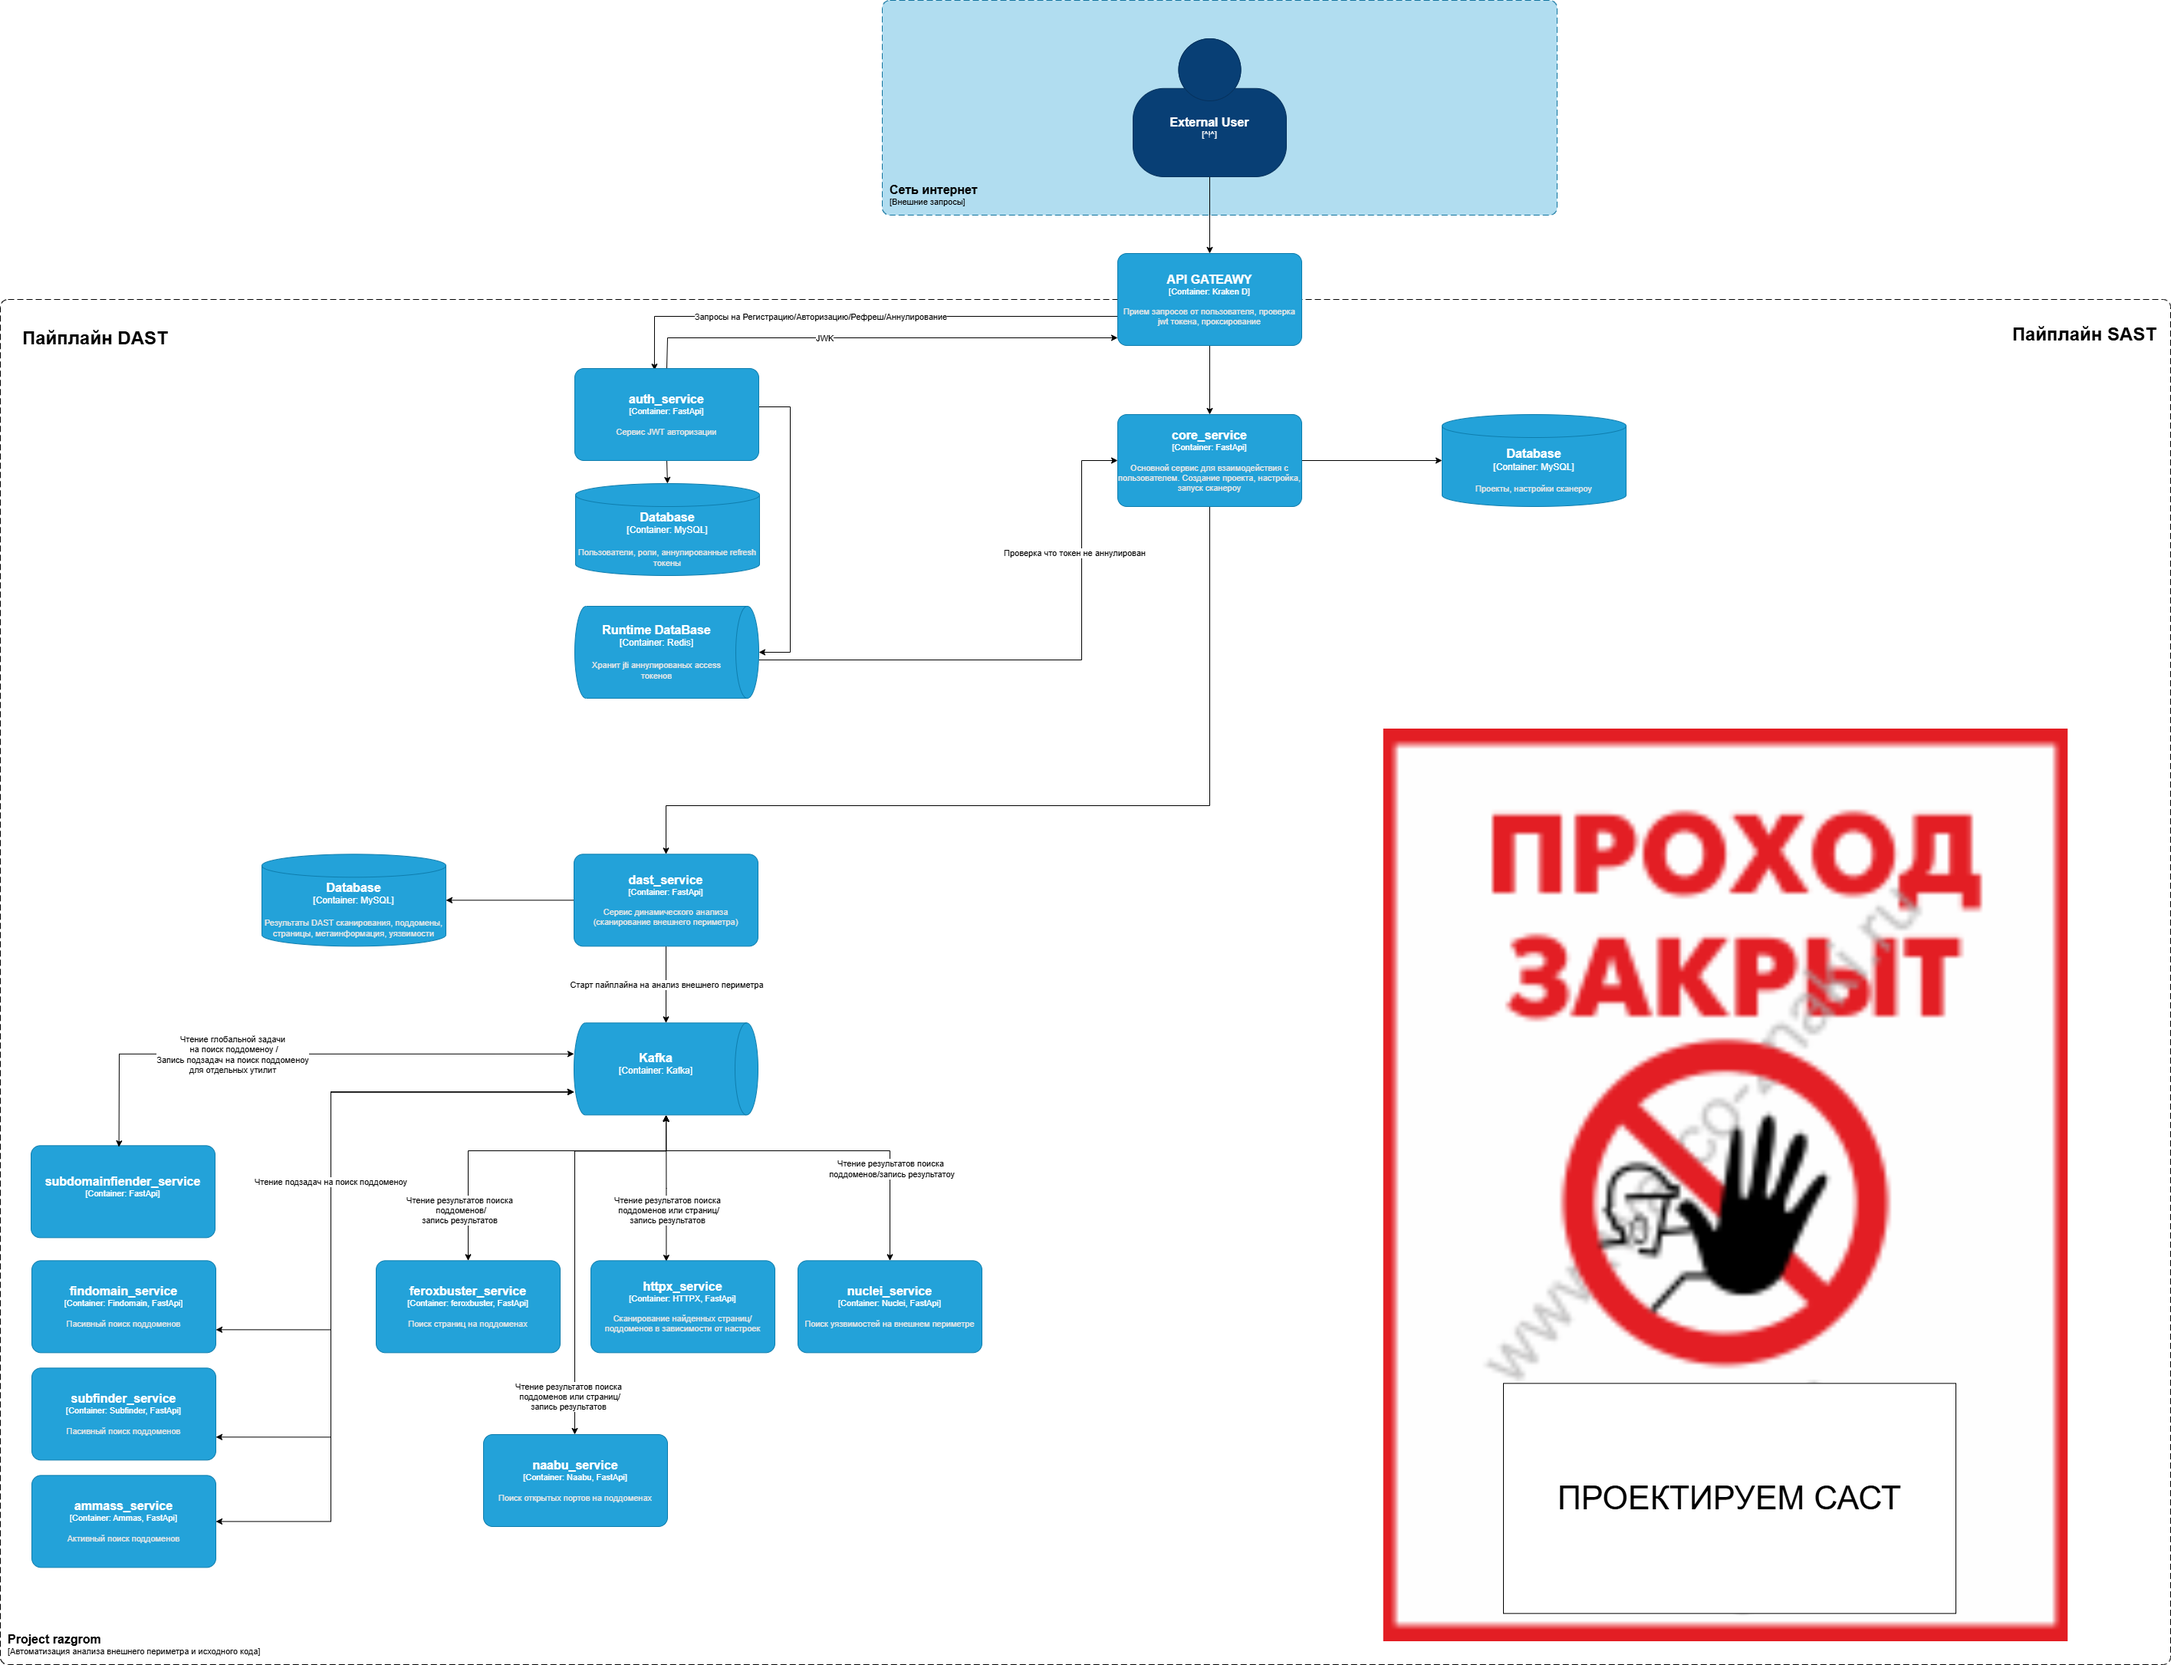
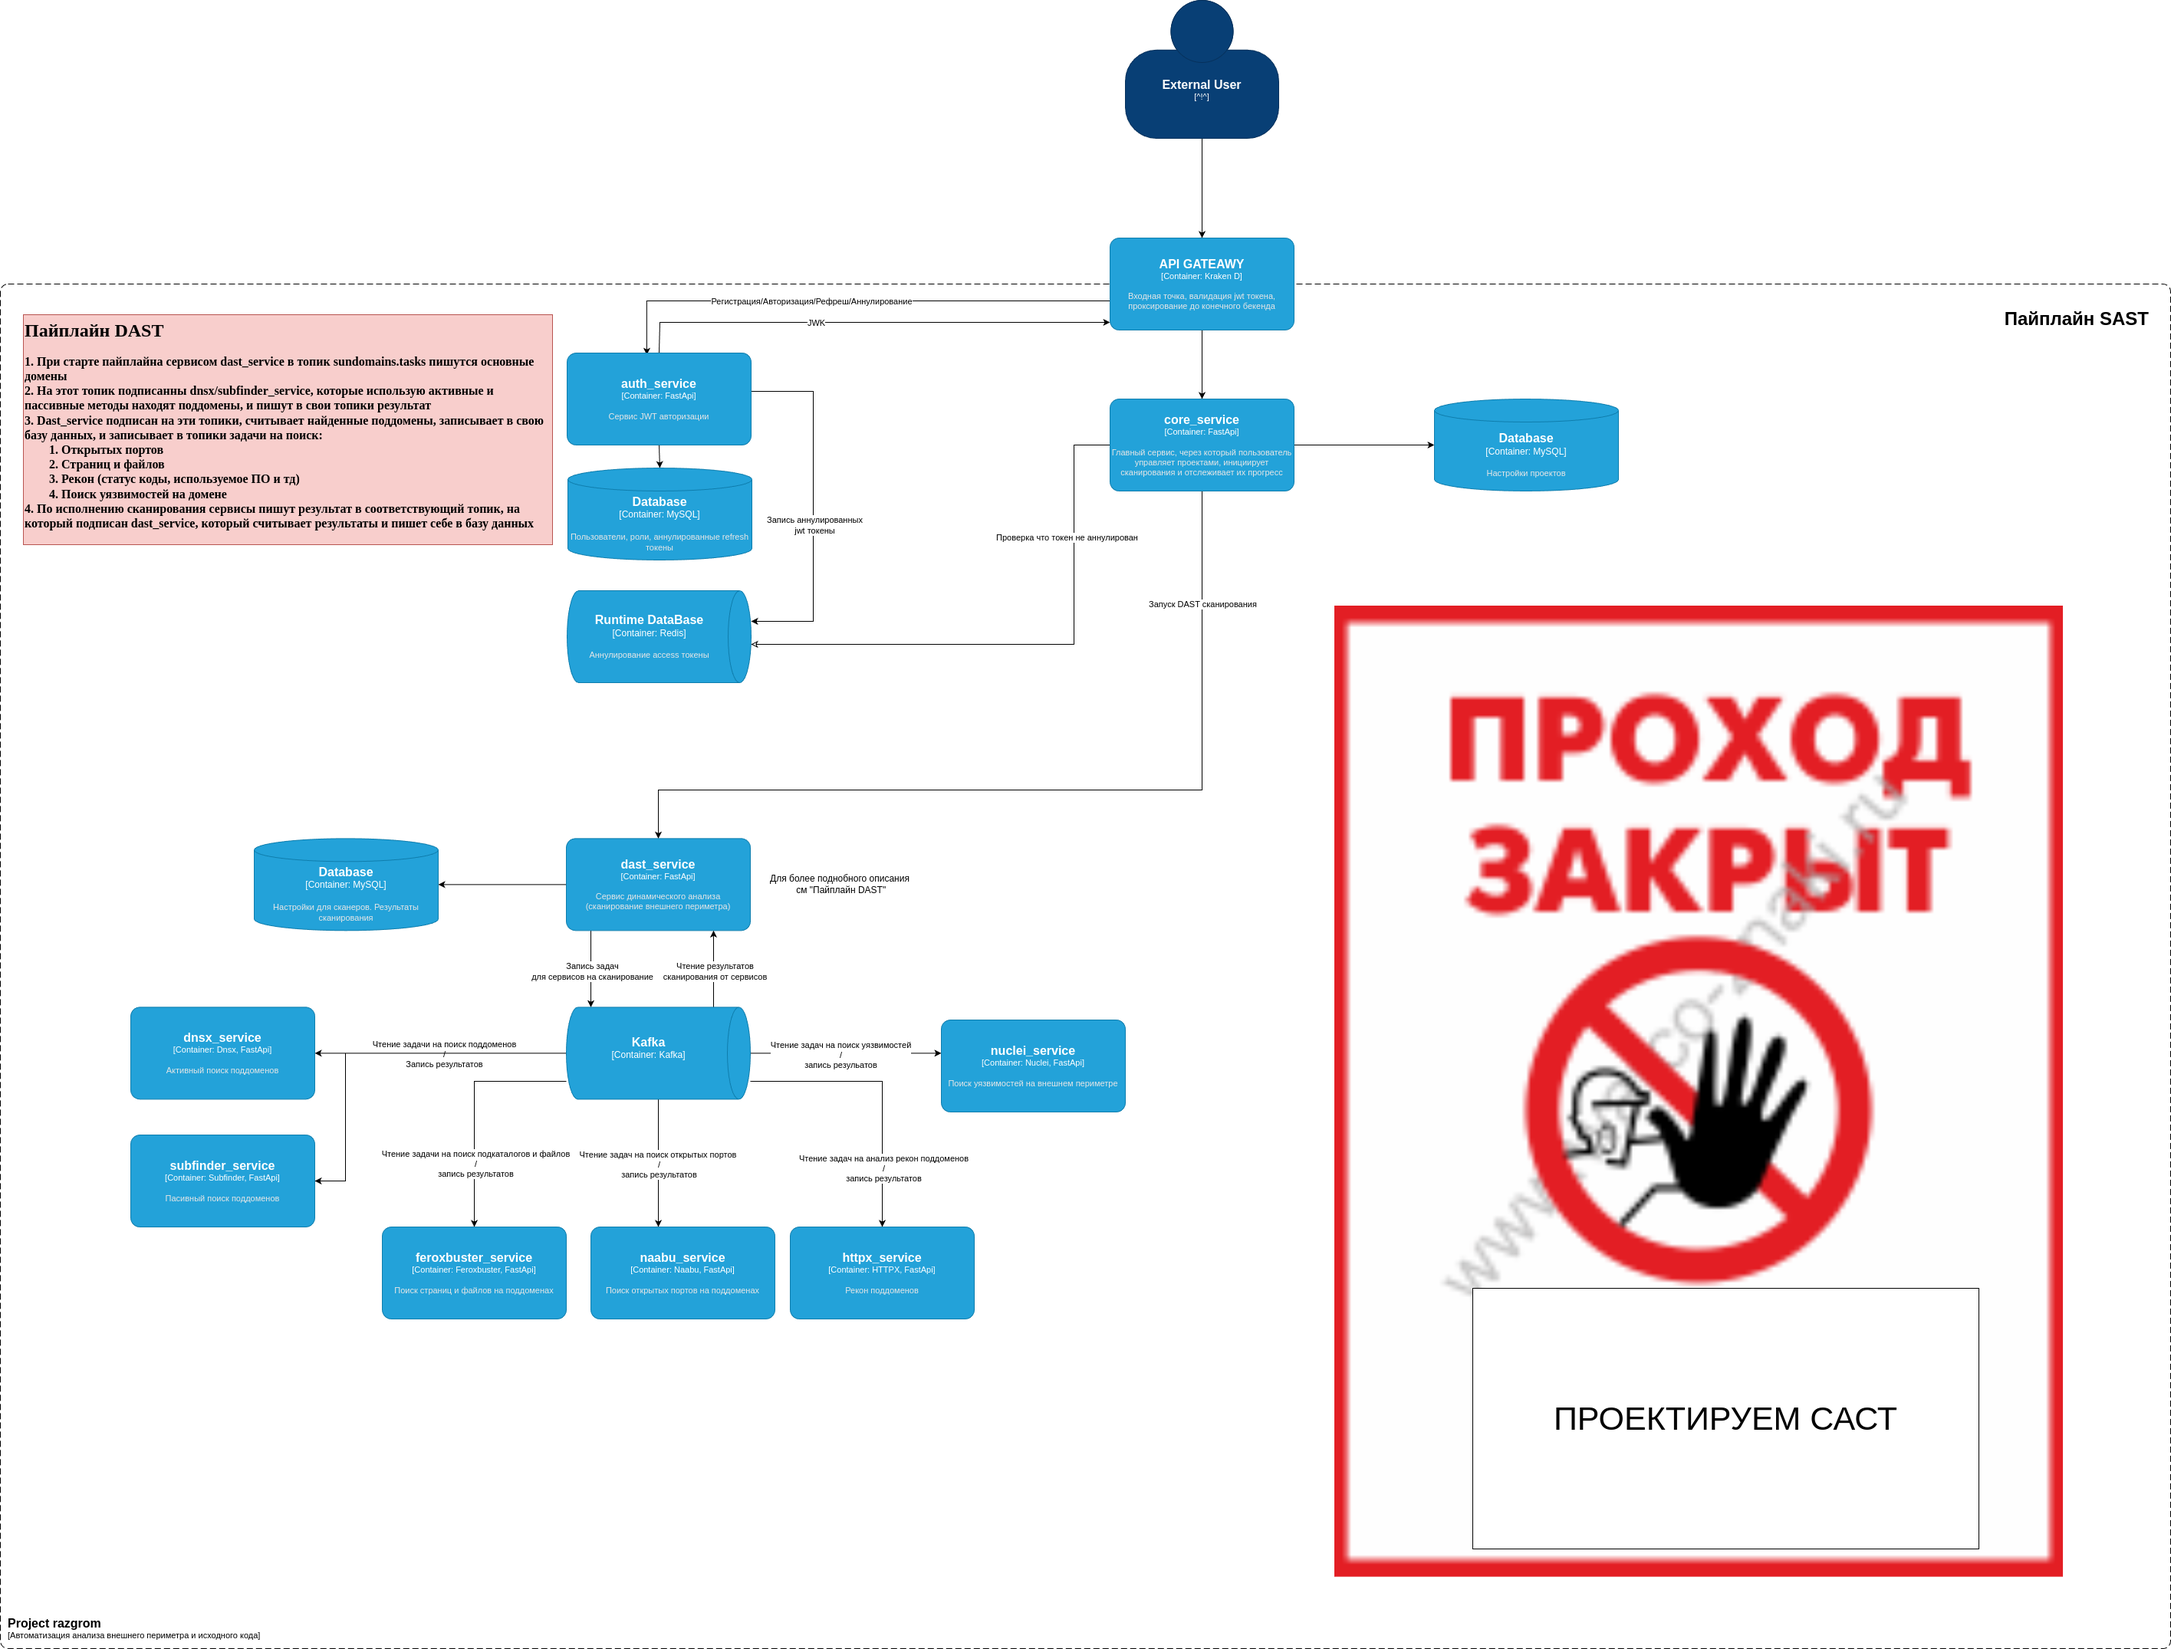
Обновление HLD и README.md

diff --git a/README.md b/README.md
@@ -17,7 +17,8 @@
 Продукт состоит из микро сервисной архитектуры:
 1. [Сервис работы с пользователями jwt (auth_service)](app/services/auth_service/README.md)
 2. [Основной сервис (core_service)](app/services/core_service/README.md)
-2. [Api Gate Away (kraken D) ](app/services/kraken_d/README.md)
+3. [Api Gate Away (kraken D) ](app/services/kraken_d/README.md)
+4. [Сервис для пассивного поиска поддоменов (subfinder_service)](app/services/subfinder_service/README.md)
+5. [Сервис для активного поиска поддоменов (dnsx_service)](app/services/dnsx_service/README.md)
 
-DRAFT (какой дебил это спроектировал)
 >![project_razgrom.png](project_razgrom.png)
